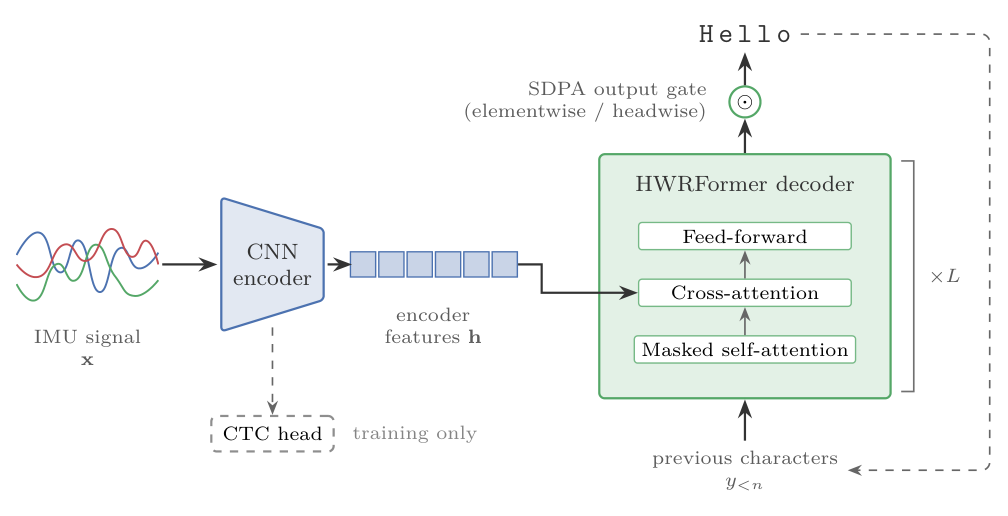
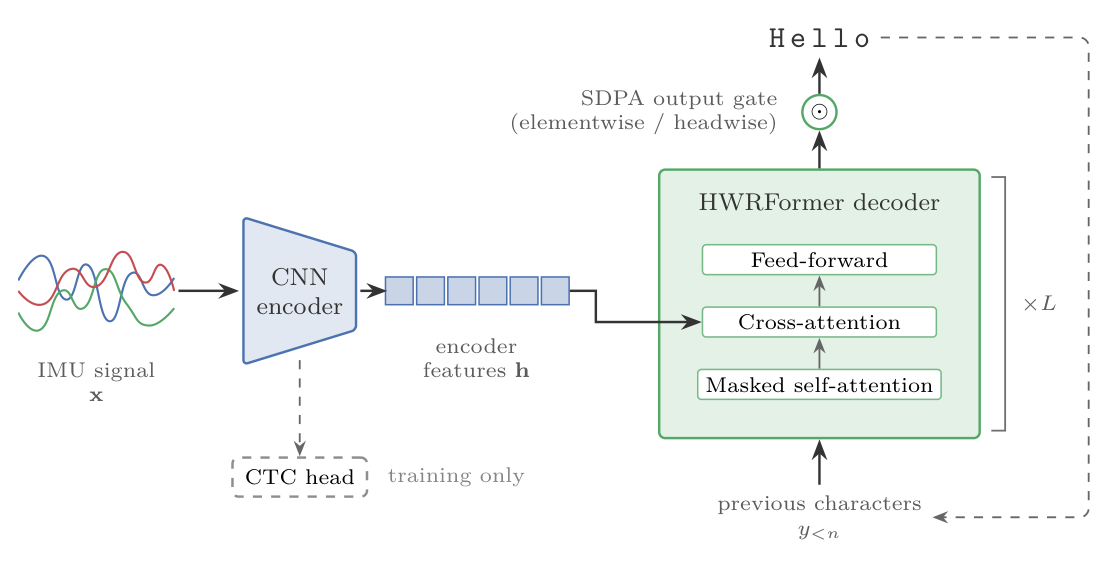
README: thesis renders of the HWRFormer and HWR-GPT architectures; cite REWI inline in the introduction

diff --git a/README.md b/README.md
@@ -11,8 +11,10 @@ Hybrid CTC–AR Training"* (AALTD @ ECML PKDD 2026; standalone release:
 
 Online handwriting recognition from an inertial sensor pen: a 13-channel IMU
 time series is mapped to text. The thesis starts from the recurrent CNN-BiLSTM-CTC
-recognizer **REWI** (Li et al., iWOAR 2025) and studies two decoder families under
-a shared 1D CNN encoder, on the public **OnHW-words500** benchmark
+recognizer **REWI** ([Li et al., iWOAR 2025](https://doi.org/10.1007/978-3-032-13312-0_16);
+this codebase extends their [implementation](https://github.com/jindongli24/REWI))
+and studies two decoder families under a shared 1D CNN encoder, on the public
+**OnHW-words500** benchmark
 (writer-independent and writer-dependent splits) and on two private STABILO
 word/sentence datasets:
 
@@ -30,11 +32,18 @@ word/sentence datasets:
 
 ![HWRFormer architecture](figures/hwrformer_architecture.png)
 
-*HWRFormer and hybrid training: the shared 1D CNN encoder feeds the AR
-Transformer decoder, which consumes its own previous predictions at inference
-(dashed loop); during hybrid training an auxiliary CTC head on the encoder adds
-an alignment loss. The REWI reference (same encoder, BiLSTM + CTC decoder) is
-shown in `figures/architecture.png`.*
+*HWRFormer: the 1D CNN encoder feeds a Transformer decoder with masked
+self-attention, cross-attention and an SDPA output gate; at inference the decoder
+consumes its own previous characters (dashed loop). The dashed CTC head is the
+training-only auxiliary objective of hybrid CTC–AR training.*
+
+![HWR-GPT architecture](figures/hwr_gpt_architecture.png)
+
+*HWR-GPT: the same encoder and a connector produce sensor-derived prefix tokens
+that, together with trainable soft prompts and a fixed instruction, condition a
+frozen GPT-2 adapted with LoRA. The optional CTC head on the encoder is the
+auxiliary supervision studied in Chapter 6. The REWI reference (same encoder with
+a BiLSTM + CTC decoder) is shown in `figures/architecture.png`.*
 
 ## Results
 
@@ -259,7 +268,3 @@ MIT — see [LICENSE.txt](LICENSE.txt). The code builds on
   year      = {2026},
 }
 ```
-
-REWI baseline: Li, J., Hamann, T., Barth, J., Kämpf, P., Zanca, D., Eskofier, B.
-*Robust and Efficient Writer-Independent IMU-Based Handwriting Recognition*,
-iWOAR 2025, LNCS 16292. <https://doi.org/10.1007/978-3-032-13312-0_16>
